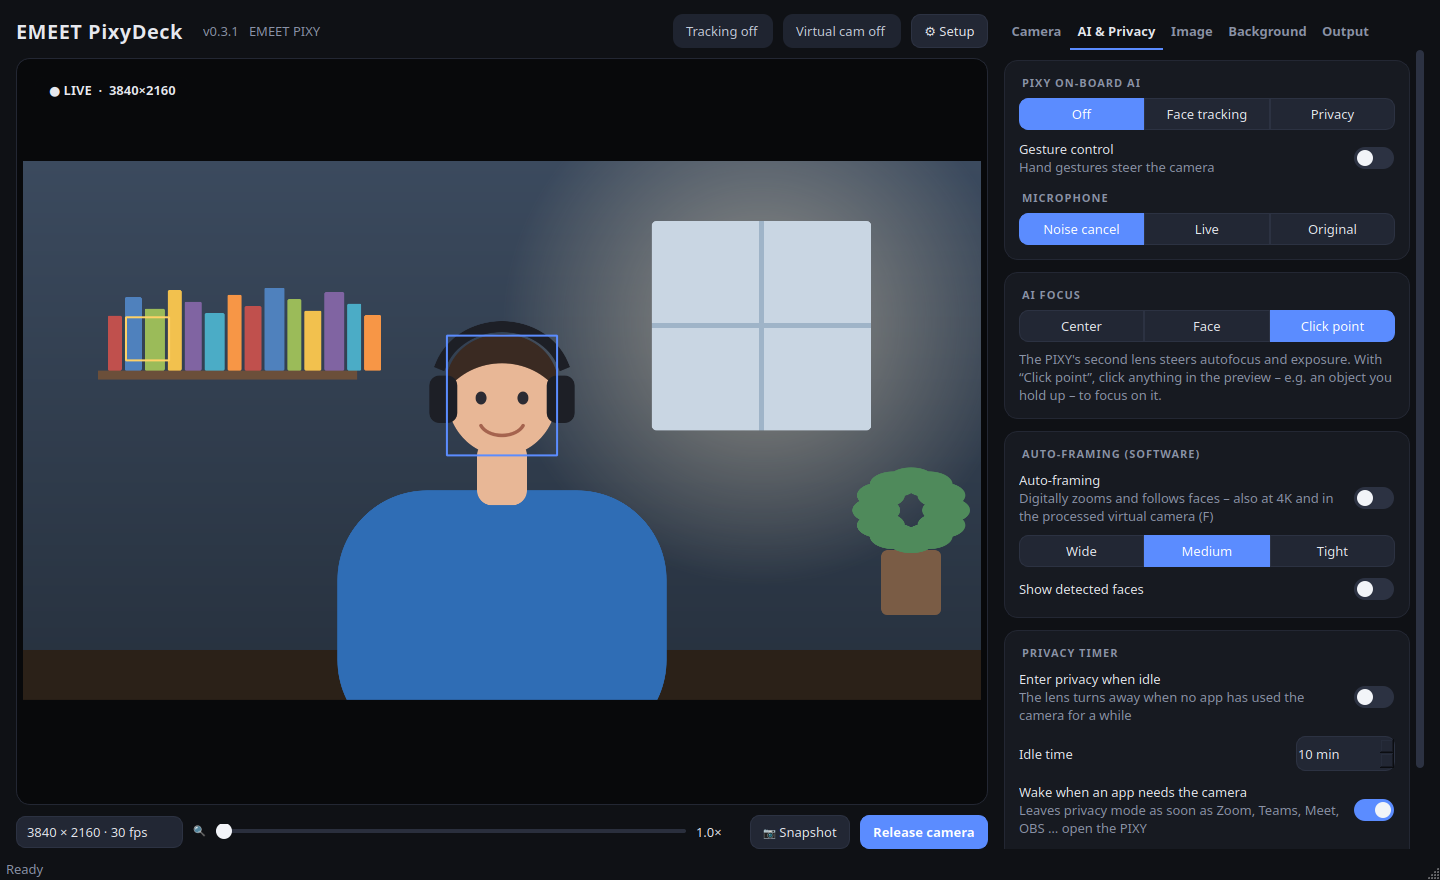
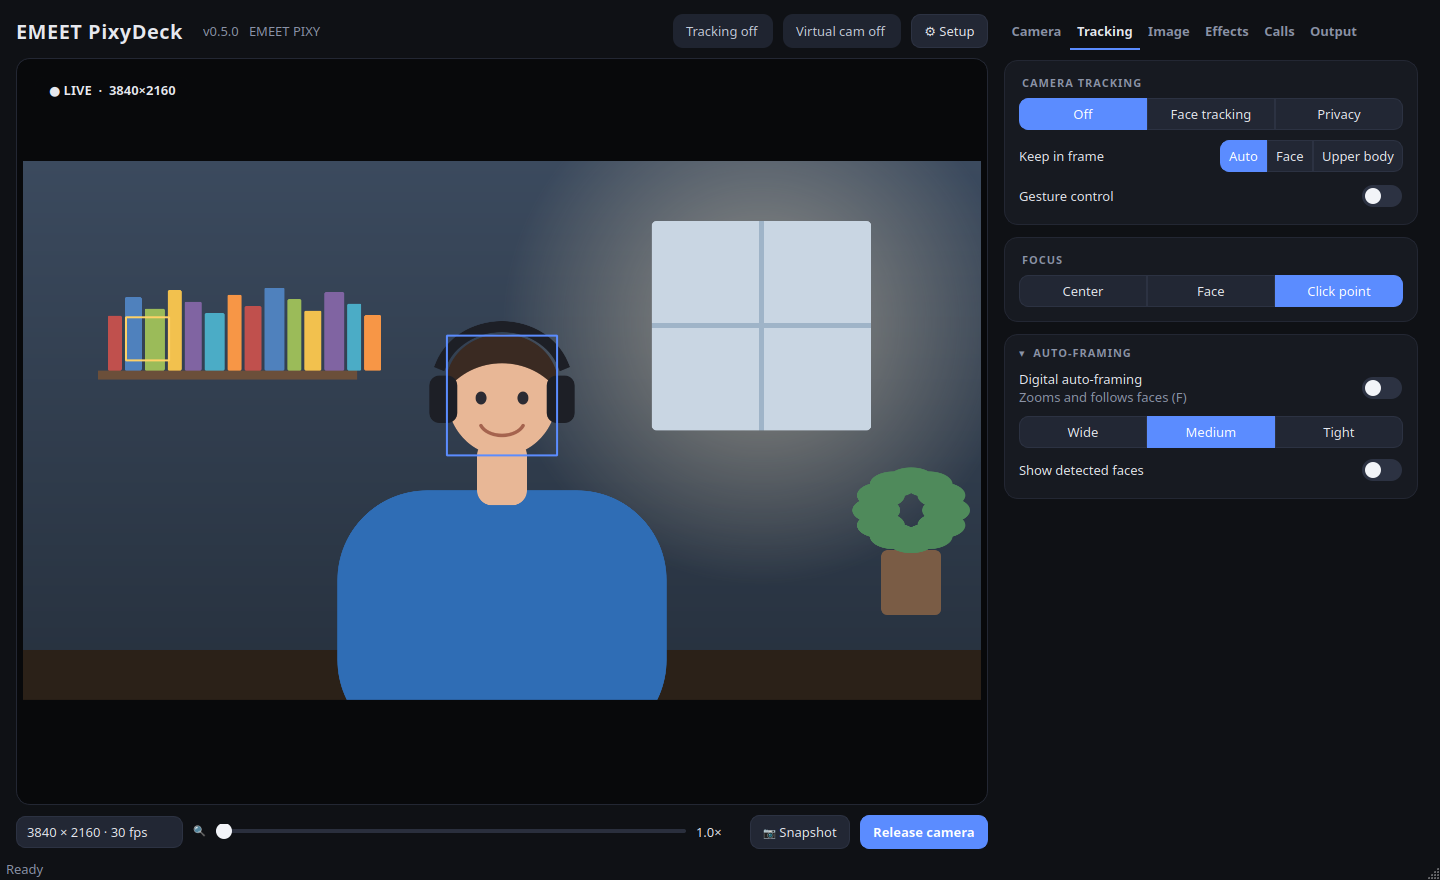
v0.5.0: call detection, virtual camera waiting screen and autostart, tidier window, camera-named virtual camera

diff --git a/src/pixydeck/__init__.py b/src/pixydeck/__init__.py
@@ -8,4 +8,4 @@ VIRTUAL_CAMERA_NAME = "EMEET PIXY (PixyDeck)"
 # Earlier names, still recognised until the device is recreated.
 LEGACY_VIRTUAL_CAMERA_NAMES = ("PixyDeck Virtual Camera",)
 
-__version__ = "0.4.1"
+__version__ = "0.5.0"

diff --git a/CHANGELOG.md b/CHANGELOG.md
@@ -1,6 +1,6 @@
 # Changelog
 
-## Unreleased
+## 0.5.0 - 2026-10-11
 
 - **The virtual camera is now called “EMEET PIXY (PixyDeck)”**, so apps list it next to the real camera. A device with the old name “PixyDeck Virtual Camera” keeps working and is renamed the next time it is created (reboot, or Setup → Virtual camera → Fix while no app uses it)
 - **Tidier window**: six task tabs (Camera, Tracking, Image, Effects, Calls, Output); rarely used settings in folded cards; long explanations moved to tooltips; the last tab and open cards are remembered
